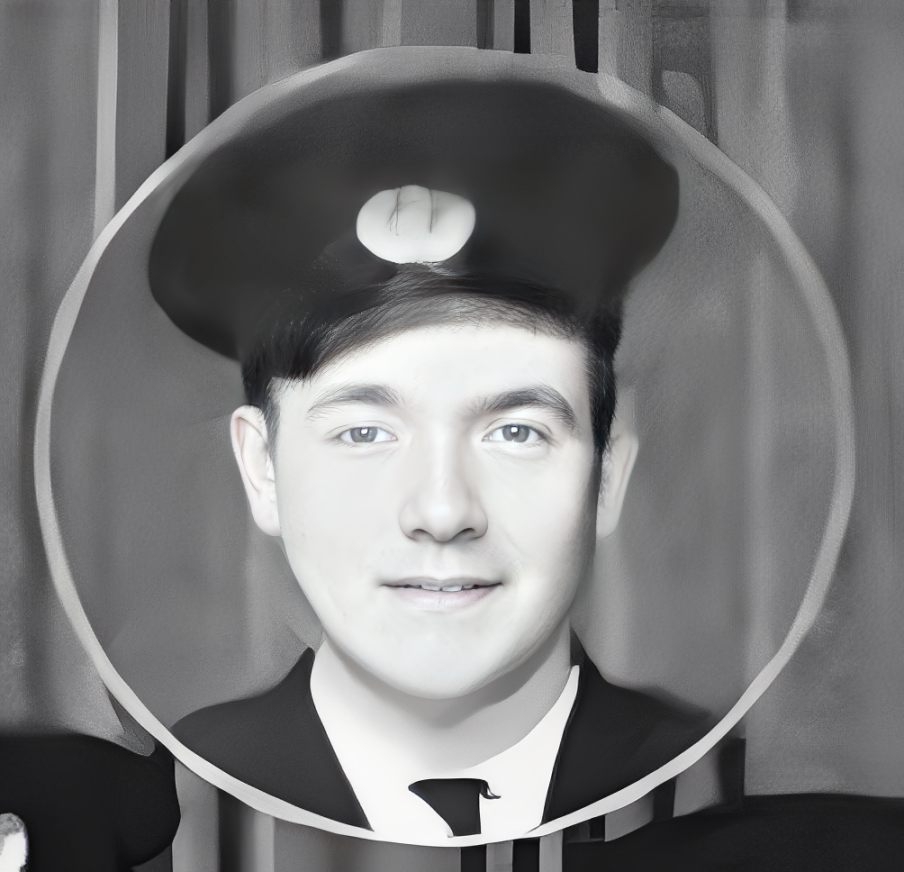
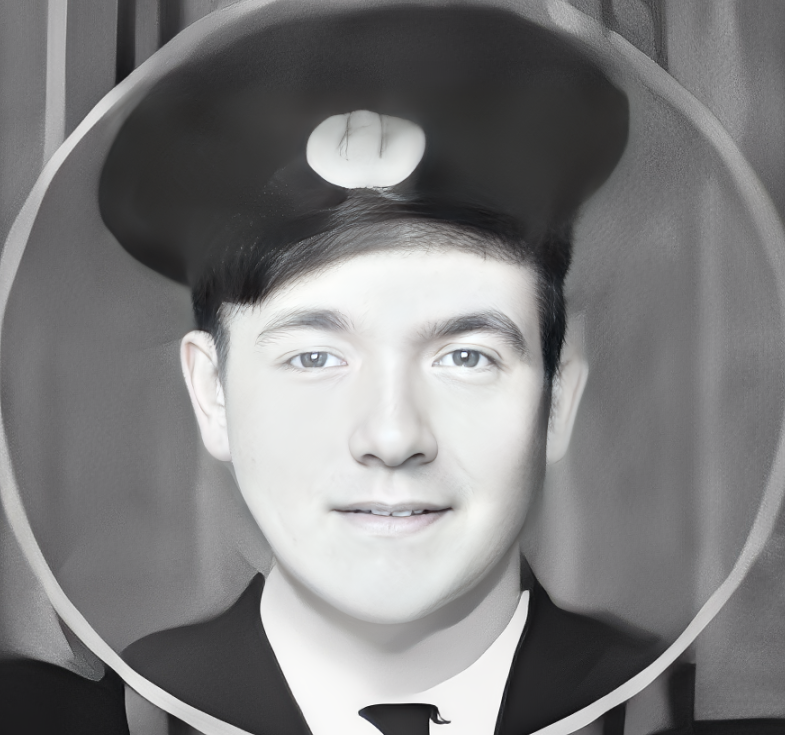
feat: add HomeStoryLegacy and TimelineSection components with associated family portrait assets

diff --git a/components/HomeStoryLegacy.tsx b/components/HomeStoryLegacy.tsx
@@ -51,7 +51,7 @@ const generations = [
   { year: "1955", relation: "Uncle", name: "Ian Tricklebank", image: "/family/Uncle.png" },
   { year: "2009", relation: "NSW Fire Brigades Senior Officer", name: "Grant Fuller", image: "/family/grantfuller.png" },
   { year: "2014", relation: "NSW Fire Brigade", name: "Paul Wilson", image: "/family/grantfuller.png" },
-  { year: "2020", relation: "Managing Director", name: "Peter Tricklebank", image: "/hompageWE LOVE OUR COFFEE & PETER LOVES THE TEAM SPIRIT/allfire-peter-1536x2048.webp" }
+  { year: "2020", relation: "Managing Director", name: "Peter Tricklebank", image: "/family/pete.png" }
 ];
 
 type Generation = (typeof generations)[number];
@@ -117,7 +117,7 @@ function TimelineGeneration({
             sizes="160px"
             style={{
               objectFit: "cover",
-              objectPosition: generation.name === "Peter Tricklebank" ? "center 15%" : "center"
+              objectPosition: "center"
             }}
           />
         )}
@@ -211,10 +211,10 @@ export default function HomeStoryLegacy() {
                     </h2>
                   </motion.header>
                   <p className="text-[#111111] text-[clamp(1.05rem,1.6vw,1.3rem)] leading-[1.55] mb-4 text-center lg:text-left" style={{ marginBottom: '1.5rem' }}>
-                    All Fire Services is an Australian owned and operated business, created by a former NSW Fire Brigades Senior Officer in December 2009.
+                    All Fire Services was founded in 2009 by former NSW Fire Brigades Senior Officer Peter Tricklebank, with one clear belief: <strong>fire protection should be delivered by people who understand it beyond the checklist.</strong>
                   </p>
                   <p className="text-[#111111] text-[clamp(1.05rem,1.6vw,1.3rem)] leading-[1.55] mb-8 text-center lg:text-left" style={{ marginBottom: '2.5rem' }}>
-                    The company was founded on a simple idea: that our customer service technicians should be professional firefighters, both serving and retired. It means every client gets extensive, real-life knowledge of the fire safety industry rather than a checklist.
+                    By building a team of <strong>serving and retired professional firefighters</strong>, every client benefits from <strong>practical knowledge, sound judgment, and experience gained on the front line.</strong>
                   </p>
                   <Link href="/about" className={styles.newStoryLink}>
                     READ OUR FULL STORY <span className={styles.newStoryLinkArrow}>&rarr;</span>
@@ -231,16 +231,16 @@ export default function HomeStoryLegacy() {
                     viewport={{ once: true, amount: 0.4 }}
                     style={{ marginTop: 0, marginBottom: '1rem', maxWidth: 'none', width: '100%' }}
                   >
-                    <p className={`${styles.kickerLeft} mx-auto lg:mx-0`}>Our story</p>
+                    <p className={`${styles.kickerLeft} mx-auto lg:mx-0`}>Why All Fire ?</p>
                     <h2 className="mx-auto lg:mx-0 text-center lg:text-left" style={{ fontSize: 'clamp(2.5rem, 4.5vw, 4.5rem)', maxWidth: '28ch' }}>
                       &ldquo;Who knows better<br className="hidden lg:block" />than a <span className={styles.orangeText}>fireman</span>?&rdquo;
                     </h2>
                   </motion.header>
                   <p className="text-[#111111] text-[clamp(1.05rem,1.6vw,1.3rem)] leading-[1.55] mb-4 text-center lg:text-left" style={{ marginBottom: '1.5rem' }}>
-                    Fire protection is more than a checklist. It is lived experience, shared by a team and passed down through generations.
+                    Fire safety is <strong>more than inspections, paperwork, and compliance.</strong> It requires the <strong>discipline to notice what others miss</strong> and the <strong>experience to understand what could happen when a system fails.</strong>
                   </p>
                   <p className="text-[#111111] text-[clamp(1.05rem,1.6vw,1.3rem)] leading-[1.55] mb-8 text-center lg:text-left" style={{ marginBottom: '2.5rem' }}>
-                    We bring the discipline, rapid response, and deep operational knowledge forged in the line of duty directly to your fire safety systems. When seconds matter and lives are on the line, our firsthand experience ensures nothing is left to chance.
+                    We bring <strong>generations of firefighting knowledge</strong> directly to your property, helping protect your people, assets, and business with <strong>nothing left to chance.</strong>
                   </p>
                   <Link href="/about" className={styles.newStoryLink}>
                     READ OUR FULL STORY <span className={styles.newStoryLinkArrow}>&rarr;</span>
@@ -347,7 +347,7 @@ export default function HomeStoryLegacy() {
                   </h2>
                   <p className="text-center md:text-justify"
                     style={{ color: '#111111', fontSize: 'clamp(1.05rem, 1.6vw, 1.3rem)', lineHeight: 1.55, margin: 0 }}>
-                    For over a century, our family has stood on the front lines of fire protection. We blend generations of firsthand firefighting experience with modern safety compliance.
+                    For more than a century, our family has served on the <strong>front line of fire protection.</strong> Today, that <strong>generations-deep experience</strong> is combined with modern compliance standards to deliver <strong>practical, reliable protection</strong> for every property we service.
                   </p>
                 </div>
 
@@ -355,7 +355,7 @@ export default function HomeStoryLegacy() {
                 <div className="grid grid-cols-1 md:grid-cols-2 gap-6 md:gap-32 items-center w-full overflow-hidden">
                   <p className="order-2 md:order-1 text-center md:text-justify"
                     style={{ color: '#111111', fontSize: 'clamp(1.05rem, 1.6vw, 1.3rem)', lineHeight: 1.55, margin: 0 }}>
-                    When you choose All Fire Services, you&apos;re not just hiring a contractor—you&apos;re partnering with an uncompromising commitment to keeping your people safe.
+                    When you choose All Fire Services, you&apos;re <strong>not simply hiring a contractor</strong>. You&apos;re choosing a team shaped by <strong>real firefighting experience</strong> and an <strong>uncompromising commitment</strong> to protecting people, property, and businesses.
                   </p>
                   <h2 className="order-1 md:order-2 text-center md:text-right"
                     style={{ fontSize: 'clamp(2rem, 3.5vw, 3.5rem)', fontWeight: 800, letterSpacing: '-0.06em', lineHeight: 0.94, color: '#111111', margin: 0, whiteSpace: 'nowrap' }}>

diff --git a/components/FounderLegacy.tsx b/components/FounderLegacy.tsx
@@ -1,0 +1,74 @@
+"use client";
+
+import Image from "next/image";
+import styles from "./HomeStoryLegacy.module.css";
+import { motion, type Variants } from "framer-motion";
+
+const reveal: Variants = {
+  hidden: { opacity: 0, y: 20 },
+  show: {
+    opacity: 1,
+    y: 0,
+    transition: { duration: 0.6, ease: "easeOut" as const },
+  },
+};
+
+export default function FounderLegacy() {
+  return (
+    <section data-theme="light" style={{ position: 'relative', zIndex: 10, background: '#ffffff' }}>
+      <div className="padding-global">
+        <div className="container-large">
+          <div className="padding-section-large" style={{ paddingTop: '5rem', paddingBottom: '3rem' }}>
+            
+            <div className={styles.newStoryGrid} style={{ marginTop: '0', marginBottom: '0', alignItems: 'stretch' }}>
+              <motion.div 
+                className={styles.newStoryContent} 
+                style={{ display: 'flex', flexDirection: 'column', justifyContent: 'center' }}
+                variants={reveal}
+                initial="hidden"
+                whileInView="show"
+                viewport={{ once: true, amount: 0.2 }}
+              >
+                <header
+                  className={`${styles.storyHeaderLeft} flex flex-col items-center md:items-start text-center md:text-left`}
+                  style={{ marginTop: 0, marginBottom: '1rem', maxWidth: 'none', width: '100%' }}
+                >
+                  <p className={`${styles.kickerLeft} mx-auto md:mx-0 justify-center md:justify-start`} style={{ textTransform: 'uppercase' }}>MEET OUR FOUNDER</p>
+                  <h2 className="mx-auto md:mx-0" style={{ fontSize: 'clamp(2.5rem, 4.8vw, 5.2rem)', maxWidth: '24ch', lineHeight: 0.94 }}>
+                    &ldquo;Fire Protection<br />Runs in <span className={styles.orangeText}>Our Blood</span>&rdquo;
+                  </h2>
+                </header>
+                <p className="text-[#111111] text-[clamp(1.05rem,1.6vw,1.3rem)] leading-[1.55] text-center md:text-left" style={{ marginBottom: '1.5rem', fontWeight: 'bold' }}>
+                  Most fire safety companies learn from manuals. We learned on the front line.
+                </p>
+                <p className="text-[#111111] text-[clamp(1.05rem,1.6vw,1.3rem)] leading-[1.55] text-center md:text-left" style={{ marginBottom: '1.5rem' }}>
+                  All Fire Services was founded by Peter Tricklebank, former NSW Fire Brigades Senior Officer, after decades of protecting lives in real emergencies. Backed by a family history of firefighters dating back to 1911, every inspection, certification, and recommendation is shaped by experience earned where it matters most.
+                </p>
+                <p className="text-[#111111] text-[clamp(1.05rem,1.6vw,1.3rem)] leading-[1.55] text-center md:text-left" style={{ fontWeight: 'bold' }}>
+                  When your building&apos;s safety is on the line, trust the people who have spent generations protecting lives and property.
+                </p>
+              </motion.div>
+              
+              <motion.div 
+                style={{ position: 'relative', width: '100%', height: '100%', minHeight: '400px', maxHeight: '550px', borderRadius: '1.5rem', overflow: 'hidden', margin: 'auto' }}
+                variants={reveal}
+                initial="hidden"
+                whileInView="show"
+                viewport={{ once: true, amount: 0.2 }}
+              >
+                <Image 
+                  src="/hompageWE LOVE OUR COFFEE & PETER LOVES THE TEAM SPIRIT/allfire-peter-1536x2048.webp" 
+                  alt="Peter Wood, Managing Director" 
+                  fill 
+                  style={{ objectFit: 'cover', objectPosition: 'center 15%' }} 
+                  sizes="(max-width: 1024px) 100vw, 42vw" 
+                />
+              </motion.div>
+            </div>
+            
+          </div>
+        </div>
+      </div>
+    </section>
+  );
+}

diff --git a/components/TimelineSection.tsx b/components/TimelineSection.tsx
@@ -44,7 +44,7 @@ const generations = [
   { year: "1955", relation: "Uncle", name: "Ian Tricklebank", image: "/family/Uncle.png" },
   { year: "2009", relation: "NSW Fire Brigades Senior Officer", name: "Grant Fuller", image: "/family/grantfuller.png" },
   { year: "2014", relation: "NSW Fire Brigade", name: "Paul Wilson", image: "/family/grantfuller.png" },
-  { year: "2020", relation: "Managing Director", name: "Peter Tricklebank", image: "/hompageWE LOVE OUR COFFEE & PETER LOVES THE TEAM SPIRIT/allfire-peter-1536x2048.webp" }
+  { year: "2020", relation: "Managing Director", name: "Peter Tricklebank", image: "/family/pete.png" }
 ];
 
 type Generation = (typeof generations)[number];
@@ -110,7 +110,7 @@ function TimelineGeneration({
             sizes="160px"
             style={{
               objectFit: "cover",
-              objectPosition: generation.name === "Peter Tricklebank" ? "center 15%" : "center"
+              objectPosition: "center"
             }}
           />
         )}

diff --git a/app/page.tsx b/app/page.tsx
@@ -16,6 +16,7 @@ const ClientFeedback = dynamic(() => import("@/components/testimonial"));
 const GoogleReviews = dynamic(() => import("@/components/GoogleReviews"));
 const FAQ = dynamic(() => import("@/components/FAQ"));
 const HomeStoryLegacy = dynamic(() => import("@/components/HomeStoryLegacy"));
+const FounderLegacy = dynamic(() => import("@/components/FounderLegacy"));
 const HomeServices = dynamic(() => import("@/components/HomeServices"));
 
 const sectionReveal = {
@@ -882,6 +883,7 @@ export default function Page() {
         </div>
         <div style={{ position: "relative", zIndex: 10, backgroundColor: "#ffffff", marginTop: "-2px" }}>
 
+        <FounderLegacy />
         <HomeStoryLegacy />
         <HomeServices />
         <MotionDiv {...sectionReveal}>
